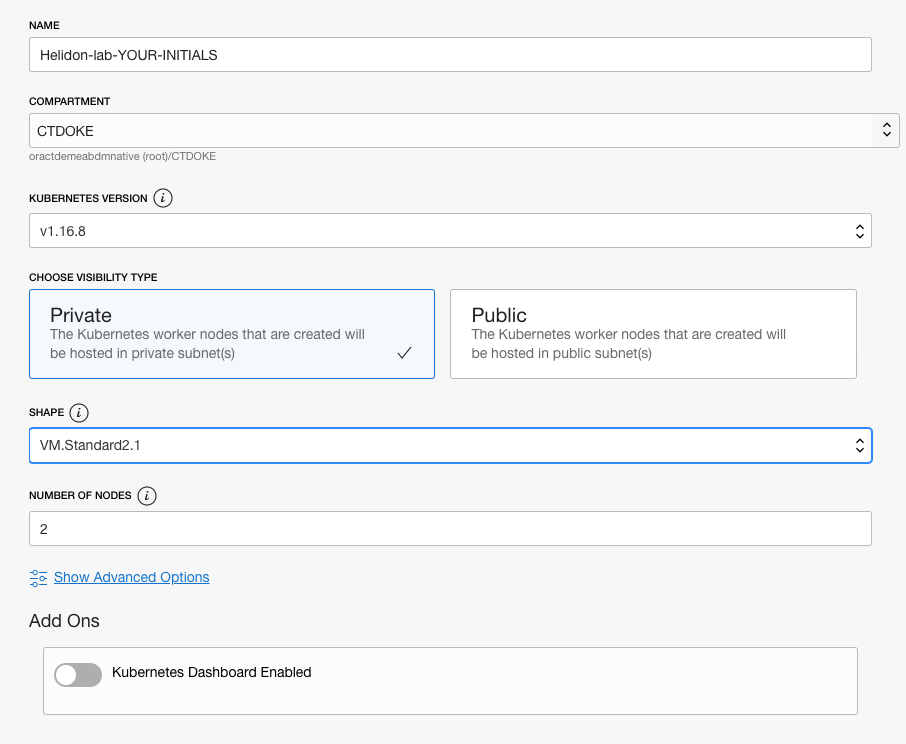
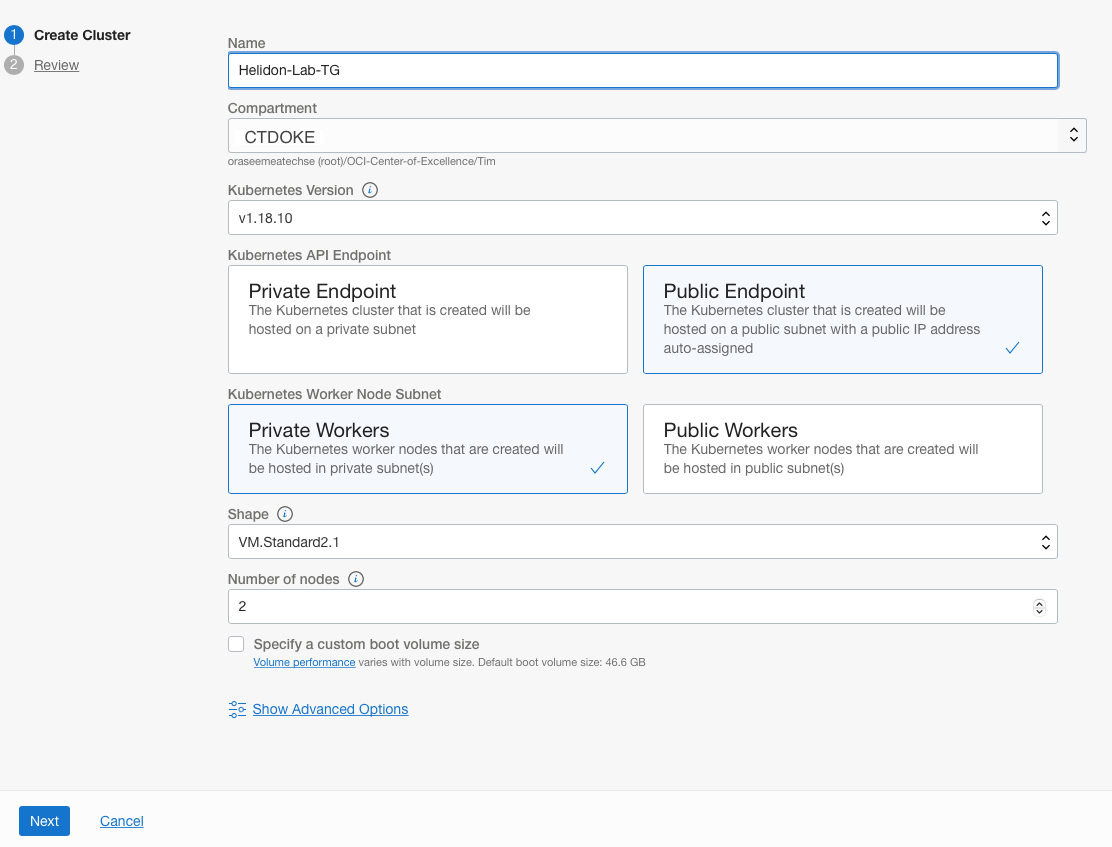
Updates to kubernetes setup for VCN based K8S API Server endpoint

diff --git a/AppDev/cloud-native/manual-setup/create-kubernetes-cluster.md b/AppDev/cloud-native/manual-setup/create-kubernetes-cluster.md
@@ -54,27 +54,29 @@ Fill in the form with following parameters:
   
   3.  Make sure the **Kubernetes version** is the highest on the list (at the time of the last update of this document in November 2020 that was 1.18.10, but it may have been updated since then)
   
-  4. Check the **Visibility type** is **Private**
+  4. If given the choice make sure that the **Kubernetes API Endpoint** is set to **Public Endpoint**
+
+  5. Check the **Kubernetes Worker Node Subnet** is set to **Private Workers**
   
-  5. Set the **Shape** dropdown to VM.Standard2.1
+  6. Set the **Shape** dropdown to VM.Standard2.1
   
-  6. Set the **Number of nodes** to be 2
+  7. Set the **Number of nodes** to be 2
 
 There is no need to do anything in the Advanced Options section.
 
-These images are for creating a 1.16.8 cluster, they may be slightly different for later versions.
+These images are for creating a 1.18.10 cluster, they may be slightly different for later versions.
  
   ![](images/create-k8s-cluster.png)
 
-  7. Click the **Next** button to go to the review page.
+  8. Click the **Next** button to go to the review page.
 
-  8. On the review page check the details you have provided are correct
+  9. On the review page check the details you have provided are correct
 
-  9. Click the **Create Cluster** button.
+  10. Click the **Create Cluster** button.
 
 You'll be presented with a progress option, if you want read what's happening
 
-  10. Scroll to the bottom and click the **Close** button
+  11. Scroll to the bottom and click the **Close** button
 
 The state will be "Creating" for a few minutes (usually 3-4 mins)
 
